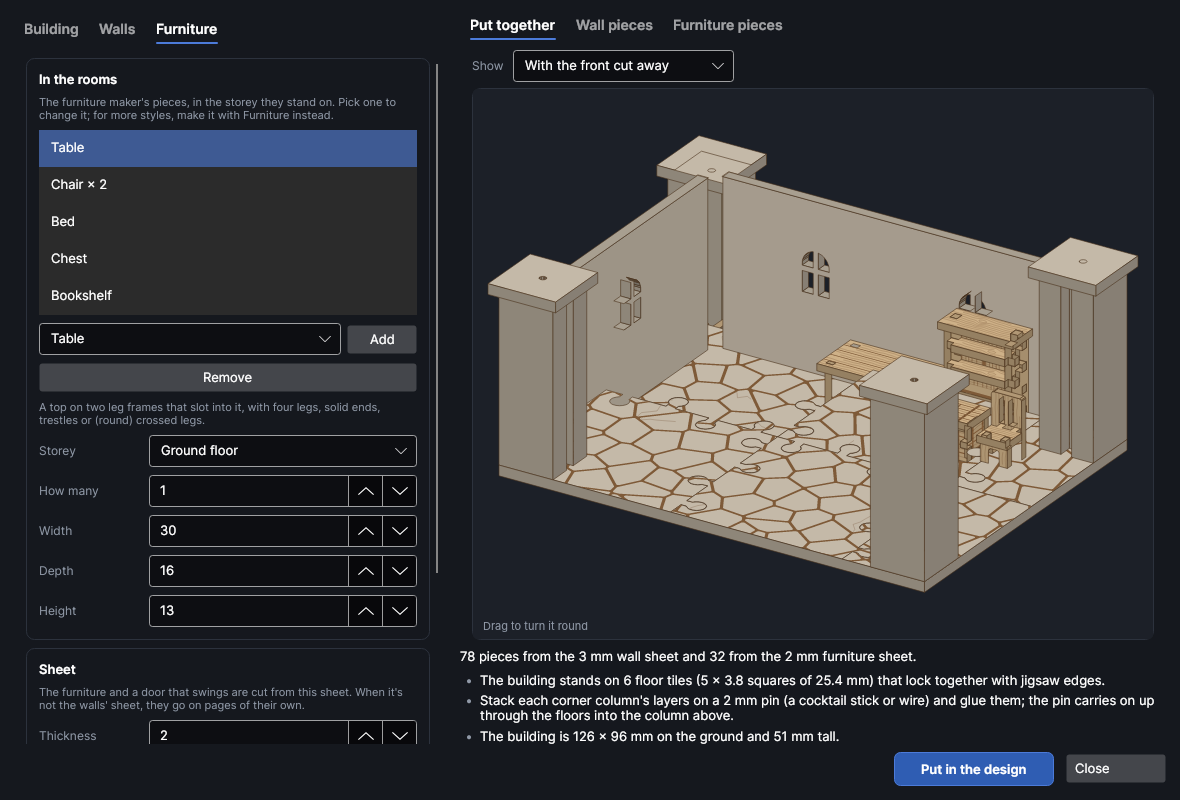
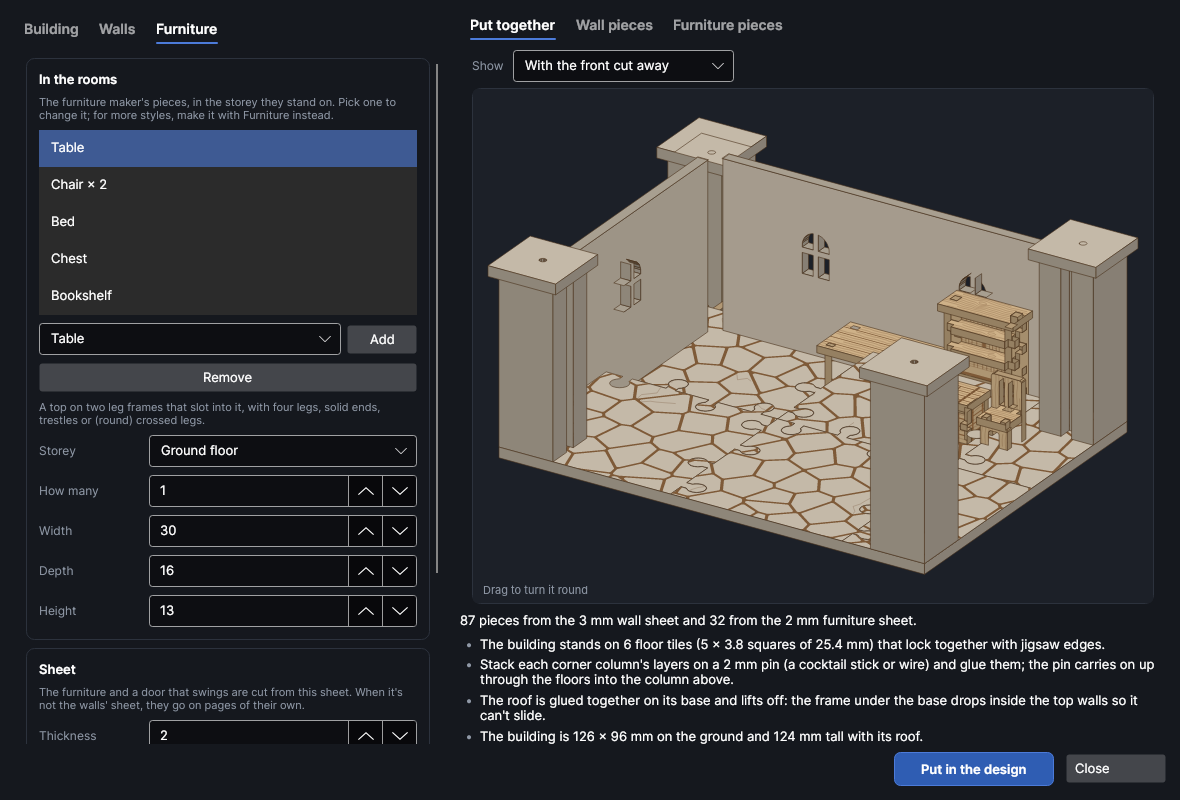
Buildings: a roof from the roof maker
Cottages and taverns get the roof maker's roof (gable, hipped or lean-to,
with thatch, slate, clay tiles and the rest etched on), fitted to the top
storey and resting on its column caps, with the locator inside the walls.
The 3D view leaves the roof off when the front is cut away.

Claude-Session: https://claude.ai/code/session_018iRXF2vzBcUjeK1USjiGFJ

Changed region(s): [[0.3966, 0.3438, 0.9763, 0.9375], [0.3966, 0.125, 0.9763, 0.4062], [0.6712, 0.2812, 0.7017, 0.375]]

diff --git a/src/Addons/Buildings/Engine/BuildingKit.cs b/src/Addons/Buildings/Engine/BuildingKit.cs
@@ -2,6 +2,7 @@ using Clipper2Lib;
 using PhotonCanvas.Addon.FloorTiles;
 using PhotonCanvas.Addon.Furniture;
 using PhotonCanvas.Addon.Stairs;
+using Roofs = PhotonCanvas.Addon.Roofs;
 using Pose = PhotonCanvas.Addon.Furniture.Pose;
 using V3 = PhotonCanvas.Addon.Furniture.V3;
 using PhotonCanvas.Addon.Walls;
@@ -27,7 +28,7 @@ public sealed record Piece(string Name, Sheet Sheet, PathsD Cut, PathsD Etched, 
 /// </summary>
 public sealed record Solid(string Name, PathsD Outline, Pose Pose, double Thickness, PathsD? Etched, List<PathD>? Lines, int Storey, WallSide Side, bool IsFurniture);
 
-public enum WallSide { None, Front, Back, Left, Right, Floor, Ground }
+public enum WallSide { None, Front, Back, Left, Right, Floor, Ground, Roof }
 
 /// <summary>Everything a building is cut from, where it all goes, and what was found while making it.</summary>
 public sealed record BuildingKit(List<Piece> Pieces, List<Solid> Solids, List<Finding> Findings, double StoreyMm, double WallMm, SetKit? Furniture)
@@ -201,12 +202,23 @@ public static class BuildingKitMaker
 
         Tiles(s, pieces, solids, findings);
         Columns(s, storeys, wallStoreys, pieces, solids, findings);
+        if (!parapet) Roof(s, pieces, solids, findings);
         var blocked = new List<(int Storey, double X0, double Z0, double X1, double Z1)>();
         Floors(s, storeys, wallStoreys, pieces, solids, findings, blocked);
         var furniture = Furnish(s, frontGround, pieces, solids, findings, blocked);
 
         if (frontGround is not null)
-            findings.Add(new(Severity.Note, $"The building is {W + s.ColumnMm:0} × {D + s.ColumnMm:0} mm on the ground and {StoreyBase(s, wallStoreys - 1) + (wallStoreys > storeys ? ParapetHeight(s) : H):0} mm tall."));
+        {
+            double tall = StoreyBase(s, wallStoreys - 1) + (wallStoreys > storeys ? ParapetHeight(s) : H);
+            foreach (var r in solids.Where(x => x.Side == WallSide.Roof))
+            {
+                var b = Geo.Bounds(r.Outline);
+                foreach (var u in new[] { b.left, b.right })
+                    foreach (var v in new[] { b.top, b.bottom })
+                        tall = Math.Max(tall, r.Pose.At(u, v, r.Thickness / 2).Y);
+            }
+            findings.Add(new(Severity.Note, $"The building is {W + s.ColumnMm:0} × {D + s.ColumnMm:0} mm on the ground and {tall:0} mm tall{(solids.Any(x => x.Side == WallSide.Roof) ? " with its roof" : "")}."));
+        }
         return new(pieces, solids, findings, H, Wt, furniture);
     }
 
@@ -235,6 +247,61 @@ public static class BuildingKitMaker
             string where = wallStoreys == 1 ? "" : Storey == storeys ? ", battlements" : $", storey {Storey + 1}";
             return what + where;
         }
+    }
+
+    /// <summary>The roof maker's settings for a roof on the top storey's walls (null for none).</summary>
+    public static Roofs.RoofSpec? RoofSpecFor(BuildingSpec s)
+    {
+        if (s.Roof == RoofShape.None || s.Top != BuildingTop.Straight) return null;
+        int top = Math.Clamp(s.Storeys, 1, 6) - 1;
+        double k28 = K(s);
+        var along = StoreyWall(s, top, s.WidthMm) with { Cap = true };
+        var across = StoreyWall(s, top, s.DepthMm) with { Cap = true };
+        var shingle = Roofs.Shingles.Preset(s.RoofTexture) ?? Roofs.Shingles.Preset("Slate")!;
+        var roof = new Roofs.RoofSpec
+        {
+            Style = s.Roof switch { RoofShape.Hip => Roofs.RoofStyle.Hip, RoofShape.LeanTo => Roofs.RoofStyle.LeanTo, _ => Roofs.RoofStyle.Gable },
+            PitchDeg = s.RoofPitchDeg, EaveMm = s.RoofEaveMm, GableOverhangMm = Math.Round(3 * k28, 1),
+            Shingle = shingle.Name, ShingleA = Math.Round(shingle.SizeA * k28, 2), ShingleB = Math.Round(shingle.SizeB * k28, 2),
+            ShingleGrooveMm = shingle.UsesGroove ? Math.Round(Math.Max(0.4, shingle.Groove * Math.Sqrt(k28)), 2) : shingle.Groove,
+            Seed = s.Seed + 211, Etch = s.Etch, TrussSpacingMm = Math.Round(60 * k28, 1),
+            Window = Roofs.GableWindow.None, WindowMm = Math.Round(10 * k28, 1), PinMm = PinMm,
+        };
+        return Roofs.RoofMaker.FitToWalls(roof, along, across);
+    }
+
+    /// <summary>
+    /// The roof maker's roof, sitting on the top storey's column caps with its locator inside the walls:
+    /// it lifts off to show the rooms. Its ridge runs along the longer side.
+    /// </summary>
+    static void Roof(BuildingSpec s, List<Piece> pieces, List<Solid> solids, List<Finding> findings)
+    {
+        if (RoofSpecFor(s) is not { } spec) return;
+        var kit = Roofs.RoofMaker.Make(spec);
+        foreach (var f in kit.Findings.Where(f => f.Level != Walls.Severity.Note))
+            findings.Add(new(f.Level == Walls.Severity.Bad ? Severity.Bad : Severity.Warn, $"Roof: {f.Text}"));
+        if (!kit.Ok) return;
+        int top = Math.Clamp(s.Storeys, 1, 6) - 1;
+        var wall = StoreyWall(s, top, s.WidthMm) with { Cap = true };
+        // The roof's Z = 0 is the top of the column caps it rests on.
+        double baseY = StoreyBase(s, top) + WallKitMaker.ColumnLayers(wall) * s.WallSheetMm + s.WallSheetMm;
+        double L = spec.LengthMm, T = kit.ThicknessMm;
+        bool alongX = s.WidthMm >= s.DepthMm;
+        // The roof's model (X along the ridge from 0, Y across from the middle, Z up) → the building (X right, Y up, Z toward you).
+        V3 Dir(Roofs.V3 d) => alongX ? new V3(d.X, d.Z, -d.Y) : new V3(d.Y, d.Z, d.X);
+        V3 Point(Roofs.V3 p) => alongX ? new V3(p.X - L / 2, baseY + p.Z, -p.Y) : new V3(p.Y, baseY + p.Z, p.X - L / 2);
+        foreach (var part in kit.Parts)
+        {
+            string name = part.Name.StartsWith("Roof", StringComparison.Ordinal) ? part.Name : "Roof " + char.ToLowerInvariant(part.Name[0]) + part.Name[1..];
+            pieces.Add(new Piece(name, Sheet.Walls, part.Cut, part.Etched, part.Lines, part.Copies));
+            foreach (var pose in part.Poses)
+            {
+                // The roof maker's pieces run from w = 0 to T; a solid here is centred on its pose.
+                var mid = pose.O + pose.N * (T / 2);
+                solids.Add(new Solid(name, part.Cut, new Pose(Point(mid), Dir(pose.U), Dir(pose.V)), T, Nil(part.Etched), Nil(part.Lines), top + 1, WallSide.Roof, false));
+            }
+        }
+        findings.Add(new(Severity.Note, "The roof is glued together on its base and lifts off: the frame under the base drops inside the top walls so it can't slide."));
     }
 
     /// <summary>Four corner columns a storey: a slot for each of the two walls, a pin hole up the middle; a cap on the top ones if nothing lies on them.</summary>

diff --git a/src/Addons/Buildings/Engine/BuildingSpec.cs b/src/Addons/Buildings/Engine/BuildingSpec.cs
@@ -17,6 +17,9 @@ public enum WayUpStyle { Stairs, Spiral, Ladder, None }
 /// <summary>The top of the building: walls cut straight (for a roof), or a floor on top with a low wall of battlements round it.</summary>
 public enum BuildingTop { Straight, Battlements }
 
+/// <summary>The roof on straight walls (the roof maker's): none, pitched with gable ends, hipped, or a lean-to.</summary>
+public enum RoofShape { None, Gable, Hip, LeanTo }
+
 /// <summary>One piece of furniture in the building, the storey it stands on (0 = the ground) and how many.</summary>
 public sealed record RoomItem
 {
@@ -79,6 +82,15 @@ public sealed record BuildingSpec
     public double SillMm { get; init; } = 22;
     public WindowBars Bars { get; init; } = WindowBars.Cross;
 
+    /// <summary>The roof on top of straight walls (none with battlements).</summary>
+    public RoofShape Roof { get; init; } = RoofShape.Gable;
+    /// <summary>What's etched on the roof (a roof maker shingle preset).</summary>
+    public string RoofTexture { get; init; } = "Slate";
+    /// <summary>The roof's slope (degrees from flat).</summary>
+    public double RoofPitchDeg { get; init; } = 45;
+    /// <summary>How far the roof reaches past the walls at the bottom of the slope (mm).</summary>
+    public double RoofEaveMm { get; init; } = 4;
+
     /// <summary>The way up to each floor above.</summary>
     public WayUpStyle WayUp { get; init; } = WayUpStyle.Stairs;
 
@@ -116,8 +128,8 @@ public sealed record BuildingSpec
 
     public static readonly IReadOnlyList<KindInfo> Kinds =
     [
-        new(BuildingKind.Cottage, "Cottage", "One storey of fieldstone with an arched door and windows, furnished with a table, chairs, a bed, a chest and a bookshelf."),
-        new(BuildingKind.Tavern, "Tavern", "Two storeys: stone below and timber frame above. Tables, benches, stools and crates in the taproom, beds and chests in the rooms upstairs."),
+        new(BuildingKind.Cottage, "Cottage", "One storey of fieldstone under a thatched roof, with an arched door and windows, furnished with a table, chairs, a bed, a chest and a bookshelf."),
+        new(BuildingKind.Tavern, "Tavern", "Two storeys: stone below and timber frame above, under a tiled roof. Tables, benches, stools and crates in the taproom, beds and chests in the rooms upstairs."),
         new(BuildingKind.Watchtower, "Watchtower", "A narrow stone tower with arrow slits, two storeys and a floor on top behind battlements. Crates and a chest below, bunks above."),
     ];
 
@@ -146,7 +158,7 @@ public sealed record BuildingSpec
         BuildingKind.Tavern => new BuildingSpec
         {
             Kind = k, WidthMm = 150, DepthMm = 100, Storeys = 2, StoreyHeightMm = 48,
-            Texture = "Stone blocks", UpperTexture = "Timber frame", FloorTexture = "Floorboards",
+            Texture = "Stone blocks", UpperTexture = "Timber frame", FloorTexture = "Floorboards", RoofTexture = "Clay tiles", RoofPitchDeg = 40,
             DoorShape = OpeningShape.Rectangle, DoorWidthMm = 18, DoorHeightMm = 30,
             WindowsFront = 3, WindowsSide = 1, WindowShape = OpeningShape.Rectangle, WindowWidthMm = 10, WindowHeightMm = 12, SillMm = 20, Bars = WindowBars.Cross,
             Items =
@@ -158,7 +170,7 @@ public sealed record BuildingSpec
         },
         BuildingKind.Watchtower => new BuildingSpec
         {
-            Kind = k, WidthMm = 72, DepthMm = 72, Storeys = 2, StoreyHeightMm = 45, Top = BuildingTop.Battlements, ParapetHeightMm = 21,
+            Kind = k, WidthMm = 72, DepthMm = 72, Storeys = 2, StoreyHeightMm = 45, Top = BuildingTop.Battlements, ParapetHeightMm = 21, Roof = RoofShape.None,
             Texture = "Stone blocks", FloorTexture = "Dungeon flagstones", WayUp = WayUpStyle.Ladder, DoorShape = OpeningShape.Arched, DoorWidthMm = 15, DoorHeightMm = 27,
             WindowsFront = 1, WindowsSide = 1, WindowShape = OpeningShape.ArrowSlit, WindowWidthMm = 2.5, WindowHeightMm = 15, SillMm = 18, Bars = WindowBars.None,
             Items = [I(ItemKind.Crate, 0, 3), I(ItemKind.Chest, 0, 1), I(ItemKind.Bed, 1, 2), I(ItemKind.Table, 1, 1, t => t with { WidthMm = 20, DepthMm = 12 }), I(ItemKind.Stool, 1, 2)],
@@ -166,7 +178,7 @@ public sealed record BuildingSpec
         _ => new BuildingSpec
         {
             Kind = BuildingKind.Cottage, WidthMm = 110, DepthMm = 80, Storeys = 1, StoreyHeightMm = 48,
-            Texture = "Fieldstone",
+            Texture = "Fieldstone", RoofTexture = "Thatch", RoofPitchDeg = 50, RoofEaveMm = 6,
             Items = [I(ItemKind.Table), I(ItemKind.Chair, 0, 2), I(ItemKind.Bed), I(ItemKind.Chest), I(ItemKind.Bookshelf)],
         },
     };
@@ -180,7 +192,7 @@ public sealed record BuildingSpec
             ScaleMm = R(ScaleMm * k),
             WidthMm = R(WidthMm * k), DepthMm = R(DepthMm * k), SquareMm = R(SquareMm * k), YardMm = R(YardMm * k), StoreyHeightMm = R(StoreyHeightMm * k), ParapetHeightMm = R(ParapetHeightMm * k),
             ColumnMm = Math.Max(WallSheetMm * (TwoSided ? 2 : 1) + 6, R(ColumnMm * k)),
-            DoorWidthMm = R(DoorWidthMm * k), DoorHeightMm = R(DoorHeightMm * k),
+            DoorWidthMm = R(DoorWidthMm * k), DoorHeightMm = R(DoorHeightMm * k), RoofEaveMm = R(RoofEaveMm * k),
             WindowWidthMm = R(WindowWidthMm * k), WindowHeightMm = R(WindowHeightMm * k), SillMm = R(SillMm * k),
             Items = [.. Items.Select(r => r with { Item = ScaledItem(r.Item, k) })],
         };

diff --git a/tests/PhotonCanvas.Tests/BuildingsTests.cs b/tests/PhotonCanvas.Tests/BuildingsTests.cs
@@ -106,7 +106,7 @@ public class BuildingsTests
     public void Walls_go_into_the_columns_without_clashing(BuildingKind k)
     {
         var kit = Make(k);
-        var walls = kit.Solids.Where(s => !s.IsFurniture && s.Side is not (WallSide.None or WallSide.Floor or WallSide.Ground) && s.Name != "Front door").ToList();
+        var walls = kit.Solids.Where(s => !s.IsFurniture && s.Side is not (WallSide.None or WallSide.Floor or WallSide.Ground or WallSide.Roof) && s.Name != "Front door").ToList();
         var columns = kit.Solids.Where(s => s.Name is "Corner column" or "Column cap").ToList();
         var floors = kit.Solids.Where(s => s.Side is WallSide.Floor or WallSide.Ground).ToList();
         Assert.Equal(4, walls.Count(w => w.Storey == 0));
@@ -168,6 +168,51 @@ public class BuildingsTests
         }
         var structure = kit.Solids.Where(s => !s.IsFurniture).ToList();
         Assert.Empty(Clashes(furniture, structure, 0.4));
+    }
+
+    [Theory]
+    [InlineData(BuildingKind.Cottage, RoofShape.Gable)]
+    [InlineData(BuildingKind.Tavern, RoofShape.Gable)]
+    [InlineData(BuildingKind.Tavern, RoofShape.Hip)]
+    [InlineData(BuildingKind.Cottage, RoofShape.LeanTo)]
+    public void The_roof_sits_on_the_top_storey_without_clashing(BuildingKind k, RoofShape shape)
+    {
+        var spec = BuildingSpec.Preset(k) with { Roof = shape };
+        var kit = BuildingKitMaker.Make(spec);
+        Assert.DoesNotContain(kit.Findings, f => f.Level != Severity.Note);
+        var roof = kit.Solids.Where(s => s.Side == WallSide.Roof).ToList();
+        Assert.NotEmpty(roof);
+        Assert.Contains(kit.Pieces, p => p.Name == "Roof base" && p.Sheet == Sheet.Walls);
+        // As wide as the column caps' outside: half a column and the caps' lip past the columns' centres.
+        double W = spec.WidthMm, D = spec.DepthMm, half = spec.ColumnMm / 2 + PhotonCanvas.Addon.Walls.WallKitMaker.LipMm;
+        int top = spec.Storeys - 1;
+        double wallsTop = BuildingKitMaker.StoreyBase(spec, top) + BuildingKitMaker.StoreyHeight(spec);
+        var base_ = Box(roof.First(s => s.Name == "Roof base"));
+        // The base lies on the column caps.
+        Assert.Equal(wallsTop + spec.WallSheetMm, base_.Min.Y, 3);
+        Assert.Equal(-W / 2 - half, base_.Min.X, 1);
+        Assert.Equal(W / 2 + half, base_.Max.X, 1);
+        Assert.Equal(-D / 2 - half, base_.Min.Z, 1);
+        Assert.Equal(D / 2 + half, base_.Max.Z, 1);
+        // The locator reaches down inside the walls.
+        var locator = roof.Where(s => s.Name.StartsWith("Roof locator", StringComparison.Ordinal)).ToList();
+        Assert.NotEmpty(locator);
+        Assert.True(locator.Min(s => Box(s).Min.Y) < wallsTop, "the locator doesn't reach inside the walls");
+        var structure = kit.Solids.Where(s => !s.IsFurniture && s.Side != WallSide.Roof).ToList();
+        Assert.Empty(Clashes(roof, structure, 0.4));
+        Assert.Contains(kit.Findings, f => f.Text.Contains("with its roof", StringComparison.Ordinal));
+
+        var bare = BuildingKitMaker.Make(spec with { Roof = RoofShape.None });
+        Assert.DoesNotContain(bare.Solids, s => s.Side == WallSide.Roof);
+        Assert.DoesNotContain(bare.Pieces, p => p.Name.StartsWith("Roof", StringComparison.Ordinal));
+    }
+
+    [Fact]
+    public void A_tower_with_battlements_has_no_roof()
+    {
+        var spec = BuildingSpec.Preset(BuildingKind.Watchtower) with { Roof = RoofShape.Gable };
+        var kit = BuildingKitMaker.Make(spec);
+        Assert.DoesNotContain(kit.Solids, s => s.Side == WallSide.Roof);
     }
 
     [Theory]

diff --git a/src/Addons/Buildings/BuildingView.cs b/src/Addons/Buildings/BuildingView.cs
@@ -15,12 +15,16 @@ public enum ViewMode { Whole, CutAway, Storey }
 /// <summary>
 /// The building put together, drawn in 3D from above and to one side: every piece at its thickness where
 /// it sits, the etched faces showing their texture. Drag to turn it round. It can cut the front and
-/// right-hand walls away to show the rooms, or show one storey on its own.
+/// right-hand walls (and the roof) away to show the rooms, or show one storey on its own.
 /// </summary>
 public sealed class BuildingView : Control
 {
     /// <summary>A flat face of one piece: its outlines (holes included), facing <see cref="Normal"/>.</summary>
-    sealed record Face(List<V3[]> Loops, V3 Normal, double Shade, PathsD? Etched, List<PathD>? Lines, Pose? Pose, double W, bool Wood);
+    sealed record Face(List<V3[]> Loops, V3 Normal, double Shade, PathsD? Etched, List<PathD>? Lines, Pose? Pose, double W, bool Wood)
+    {
+        /// <summary>The roof's outside: nothing of the roof is in front of it, so it's drawn as near as its nearest corner.</summary>
+        public bool Outside { get; init; }
+    }
 
     readonly List<Face> _faces = [];
     BuildingKit? _kit;
@@ -60,9 +64,10 @@ public sealed class BuildingView : Control
 
     bool Shown(Solid s) => Mode switch
     {
-        ViewMode.CutAway => s.Side is not (WallSide.Front or WallSide.Right),
-        ViewMode.Storey => s.Storey == Storey && s.Side is not (WallSide.Front or WallSide.Right),
-        _ => true,
+        ViewMode.CutAway => s.Side is not (WallSide.Front or WallSide.Right or WallSide.Roof),
+        ViewMode.Storey => s.Storey == Storey && s.Side is not (WallSide.Front or WallSide.Right or WallSide.Roof),
+        // Inside the roof, out of sight: left out, as they'd show through the slopes in a painter's drawing.
+        _ => !(s.Side == WallSide.Roof && (s.Name.StartsWith("Roof truss", StringComparison.Ordinal) || s.Name.StartsWith("Roof locator", StringComparison.Ordinal))),
     };
 
     void Build()
@@ -108,13 +113,13 @@ public sealed class BuildingView : Control
     {
         double T = s.Thickness;
         var pose = s.Pose;
-        bool wood = s.IsFurniture || s.Side == WallSide.Floor;
+        bool wood = s.IsFurniture || s.Side is WallSide.Floor or WallSide.Roof;
         var outline = Geo.Tidy(Clipper.SimplifyPaths(s.Outline, 0.05));
         V3 At(PointD p, double w) => pose.At(p.x, p.y, w);
         var n = pose.N;
         if (faces)
         {
-            _faces.Add(new Face([.. outline.Select(c => c.Select(p => At(p, T / 2)).ToArray())], n, 1, s.Etched, s.Lines, pose, T / 2, wood));
+            _faces.Add(new Face([.. outline.Select(c => c.Select(p => At(p, T / 2)).ToArray())], n, 1, s.Etched, s.Lines, pose, T / 2, wood) { Outside = s.Side == WallSide.Roof && s.Etched is not null });
             _faces.Add(new Face([.. outline.Select(c => c.Select(p => At(p, -T / 2)).ToArray())], -n, 1, null, null, null, 0, wood));
         }
         if (!sides) return;
@@ -169,7 +174,7 @@ public sealed class BuildingView : Control
         // While turning it round, the etching is left off so it keeps up.
         bool detail = _drag is null;
         var seen = _faces.Where(f => f.Normal.Dot(d) > 1e-6)
-                         .Select(f => (Face: f, Depth: f.Loops[0].Average(q => (q - _centre).Dot(d))))
+                         .Select(f => (Face: f, Depth: f.Outside ? f.Loops[0].Max(q => (q - _centre).Dot(d)) : f.Loops[0].Average(q => (q - _centre).Dot(d))))
                          .OrderBy(x => x.Depth);
         foreach (var (f, _) in seen)
         {

diff --git a/src/Addons/Buildings/help/buildings.md b/src/Addons/Buildings/help/buildings.md
@@ -1,14 +1,15 @@
 # Whole buildings
 
-An add-on (Settings → Add-ons → **Whole-building kits**): on when PhotonCanvas is installed, and can be turned off. It needs the **Textured wall maker**, **Mini furniture maker**, **Floor tile maker** and **Stairs, ladders and floors** add-ons, which make its pieces. Its button is **Home → Draw → Buildings**, and **Edit building…** is on the right-click menu of the pieces it made.
+An add-on (Settings → Add-ons → **Whole-building kits**): on when PhotonCanvas is installed, and can be turned off. It needs the **Textured wall maker**, **Mini furniture maker**, **Floor tile maker**, **Stairs, ladders and floors** and **Roofs and towers** add-ons, which make its pieces. Its button is **Home → Draw → Buildings**, and **Edit building…** is on the right-click menu of the pieces it made.
 
 **Buildings** makes a whole building for tabletop games and dioramas in one go: pick a
 **Cottage**, a **Tavern** or a **Watchtower** and you get every wall with its doorway and windows,
 the corner columns the walls slide into, the floor tiles it stands on, a floor between the storeys
-with stairs or a ladder up to it, a door that swings open, and the furniture for every room. Each
+with stairs or a ladder up to it, a roof that lifts off, a door that swings open, and the furniture
+for every room. Each
 piece is made the way the wall maker ([Textured walls](walls.md)), the furniture maker
-([Mini furniture](furniture.md)), the floor tile maker ([Floor tiles](floortiles.md)) and the stair
-maker ([Stairs and floors](stairs.md)) make it, so the walls have your texture etched on, the tiles
+([Mini furniture](furniture.md)), the floor tile maker ([Floor tiles](floortiles.md)), the stair
+maker ([Stairs and floors](stairs.md)) and the roof maker ([Roofs and towers](roofs.md)) make it, so the walls have your texture etched on, the tiles
 jigsaw together and the furniture slots together.
 
 > **Note:** The buildings have been checked on screen and in tests (every wall, column and floor is
@@ -42,11 +43,11 @@ changing **Figures** later scales every size, the furniture's too). Everything c
 
 | Building | What you get (at 28 mm) |
 |---|---|
-| **Cottage** | One storey, 110 × 80 mm between the corner columns, fieldstone walls on flagstone tiles, an arched door that swings, arched windows with a cross, and a table, two chairs, a bed, a chest and a bookshelf. |
-| **Tavern** | Two storeys, 150 × 100 mm: stone blocks below and timber frame above, square windows, stairs up and floorboard tiles. A taproom with two long tables, four benches, three stools, two crates and a bar counter; three beds, two chests and a chair upstairs. |
+| **Cottage** | One storey, 110 × 80 mm between the corner columns, fieldstone walls on flagstone tiles under a thatched roof, an arched door that swings, arched windows with a cross, and a table, two chairs, a bed, a chest and a bookshelf. |
+| **Tavern** | Two storeys, 150 × 100 mm: stone blocks below and timber frame above, square windows, stairs up, floorboard tiles and a clay-tiled roof. A taproom with two long tables, four benches, three stools, two crates and a bar counter; three beds, two chests and a chair upstairs. |
 | **Watchtower** | A 72 mm square tower of two storeys with arrow slits, a ladder up to each floor, a floor on top with battlements round it, on dungeon flagstones. Crates and a chest below, two bunks, a table and stools above. |
 
-## Size, storeys, floor tiles, door and windows
+## Size, storeys, roof, floor tiles, door and windows
 
 On the **Building** tab:
 
@@ -60,6 +61,13 @@ On the **Building** tab:
   opening in its back right corner, away from the door, with the stair maker's stairs or ladder
   standing under it on the storey below. The furniture is kept clear of them, and of the space
   under the opening upstairs.
+- **Roof** (with straight walls on top): the roof maker's roof, *Pitched, with gable ends*,
+  *Hipped* or *Lean-to*, or *None*. Its ridge runs along the longer side. It's built on a base as
+  big as the column caps, resting on them, with a frame under the base that drops inside the top
+  walls so it can't slide; the gable ends get the top storey's wall texture. It's glued together and
+  lifts off to show the rooms. Pick its **Covering** (slate, wooden shingles, clay tiles, thatch and
+  the rest, etched on the slopes and sized for the figures), its **Pitch** and how far the
+  **Eaves** reach past the walls.
 - **Floor tiles under the building**: the floor tile maker's jigsaw tiles, cut from the wall sheet,
   covering the building's outside and as much **Yard** round it as you like. The walls and columns
   stand on them. Pick their **Texture** (flagstones, floorboards, cobbles and the rest) and the
@@ -77,7 +85,7 @@ On the **Building** tab:
 
 On the **Walls** tab:
 
-- **Thickness**: the wall sheet. The walls, the corner columns, the floors, the stairs and the floor tiles are all cut from it.
+- **Thickness**: the wall sheet. The walls, the corner columns, the floors, the stairs, the roof and the floor tiles are all cut from it.
   Tick **Two panels back to back** for walls textured inside and out (twice as thick).
 - **Slot fit**: added to the wall's thickness for the columns' slots. **Columns**: how wide the
   corner columns are. Pick your material in **Cut with** to bring in its thickness, slot fit and
@@ -114,7 +122,7 @@ of the building still goes in.
 
 The 3D view stands the furniture in its rooms, biggest first, against the back wall and clear of the
 doorway; that's only for the picture, nothing joins it to the floor. **Show** picks *The whole
-building*, *With the front cut away* (the front and right-hand walls left out, to see into the rooms)
+building*, *With the front cut away* (the roof and the front and right-hand walls left out, to see into the rooms)
 or one storey on its own.
 
 ## Putting it together
@@ -131,3 +139,5 @@ or one storey on its own.
 5. Slide the door's clips onto the side of the doorway, one at the floor and one high up, and drop
    the door's pins into them.
 6. Put the furniture together as the furniture maker says and stand it in the rooms.
+7. Glue the roof together on its base as the roof maker says, and lift it onto the top storey's
+   column caps, the frame underneath inside the walls.

diff --git a/src/Addons/Buildings/help/tutorials/make-a-building.md b/src/Addons/Buildings/help/tutorials/make-a-building.md
@@ -1,6 +1,6 @@
 # Make a whole cottage
 <!-- category: Drawing -->
-<!-- summary: Pick a cottage, tavern or watchtower and get every wall, column, floor tile, floor, stair, door and piece of furniture at once, ready to cut and slot together. -->
+<!-- summary: Pick a cottage, tavern or watchtower and get every wall, column, floor tile, floor, stair, roof, door and piece of furniture at once, ready to cut and slot together. -->
 <!-- page: buildings.md -->
 <!-- order: 77 -->
 One window makes every piece of a building: textured walls, the columns they slide into, the
@@ -14,7 +14,7 @@ Click **Buildings** on the **Home** tab.
 ## Pick a building
 <!-- target: field:Building -->
 Pick a **Cottage**, **Tavern** or **Watchtower** under **Building**, and the size of your figures
-under **Figures**. Change its size, storeys, the way up, floor tiles, door and windows underneath.
+under **Figures**. Change its size, storeys, roof, the way up, floor tiles, door and windows underneath.
 
 ## Set the wall sheet and texture
 <!-- target: tabitem:Walls -->
